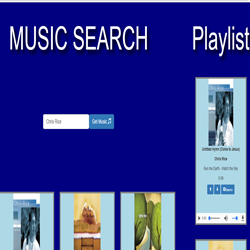
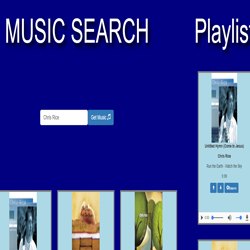
portfolio screenshots added

diff --git a/index.html b/index.html
@@ -24,77 +24,108 @@
     </div>
 
     <div class="lightgreen">
-
     </div>
 
+    <div class="sunny-sky text-center"></div>
+    </div> 
     <div class="mountain text-center">
         <h2>Projects</h2>
         <div class="container-fluid">
             <div class="row one">
+               
+               
+               
                 <div class="col-xs-12 col-sm-6 col-md-3 text-center">
                     <div>
-                        <h3> "Slap Game: Fun Beginnings"</h3>
+                        <h3>"A Project Named Inspire: Screen Saver Plus App"</h3>
+                        <a href=" https://inspireproject.herokuapp.com/"> <img class ="portimg" src="inspire.png" alt="inspire screenshot"></a>
+                    </div>
+                </div>
+                
+                <div class="col-xs-12 col-sm-6 col-md-3 text-center">
+                    <div>
+                        <h3>"Towers of Hanoi: App for GridWorks Games"</h3>
+                        <a href="https://gridgames.herokuapp.com/#/TowersOfHanoi"> <img class ="portimg gridworksgames" src="towersofhanoi.png" alt="towers of hanoi screenshot"></a>
+                    </div>
+                </div>
+                
+                
+                <div class="col-xs-12 col-sm-6 col-md-3 text-center">
+                    <div>
+                        <h3>"The Life and Times of a Kanban: Digital Kanban"</h3>
+                        <a href="http://kanbanvue.herokuapp.com/#/boards"> <img class ="portimg" src="kanban.png" alt="kanban screenshot"></a>
+                    </div>
+                </div>
+                
+                <div class="col-xs-12 col-sm-6 col-md-3 text-center">
+                    <div>
+                        <h3>"Mastermind in Vue: App for GridWorks Games"</h3>
+                        <a href="https://gridgames.herokuapp.com/#/Mastermind"> <img class ="portimg gridworksgames" src="mastermind.png" alt="mastermind screenshot"></a>
+                    </div>
+                </div>
+               
+               
+                
+               
+            </div>
+            <div class="row">
+                <div class="col-xs-12 col-sm-6 col-md-3 text-center">
+                    <div>
+                        <h3>"Fun Beginnings: Virtual Lumberjack App"</h3>
                         <a href="https://acaroselli1.github.io/SlapGame/"> <img class ="portimg" src="slapgame.png" alt="slapgame screenshot"></a>
 
                     </div>
                 </div>
                 <div class="col-xs-12 col-sm-6 col-md-3 text-center">
                     <div>
-                        <h3> "More Fun: With Music"</h3>
-                        <a href="https://acaroselli1.github.io/Music-Is-Fun/"> <img class ="portimg" src="musicisfun.png" alt="musicisfun screenshot"></a>
-                    </div>
-                </div>
-                <div class="col-xs-12 col-sm-6 col-md-3 text-center">
-                    <div>
-                        <h3>"NFL Anyone?"</h3>
+                        <h3>"NFL Anyone? : Fantasy Football App"</h3>
                         <a href="https://acaroselli1.github.io/my-roster/"> <img class ="portimg" src="myroster.png" alt="myroster screenshot"></a>
 
                     </div>
-                </div>
+                </div> 
+               
                 <div class="col-xs-12 col-sm-6 col-md-3 text-center">
                     <div>
-                        <h3>"Music with a Vue"</h3>
-                        <a href="https://demo-deploy-acaroselli.herokuapp.com/"> <img class ="portimg" src="vuemusic.png" alt="vuemusic screenshot"></a>
-                    </div>
-                </div>
-            </div>
-            <div class="row">
-                <div class="col-xs-12 col-sm-6 col-md-3 text-center">
-                    <div>
-                        <h3>"The Life and Times of a Kanban"</h3>
-                        <a href="http://kanbanvue.herokuapp.com/#/boards"> <img class ="portimg" src="kanban.png" alt="kanban screenshot"></a>
-                    </div>
-                </div>
-                <div class="col-xs-12 col-sm-6 col-md-3 text-center">
-                    <div>
-                        <h3>"The Early Days: Tic-Tac-Toe"</h3>
+                        <h3>"The Early Days: Tic-Tac-Toe App"</h3>
                         <a href="https://acaroselli1.github.io/tictactoe/"> <img class ="portimg" src="tictactoe.png" alt="tictactoe screenshot"></a>
                     </div>
                 </div>
                 <div class="col-xs-12 col-sm-6 col-md-3 text-center">
                     <div>
-                        <h3>"A Project Named Inspire"&nbsp;&nbsp;&nbsp;&nbsp;&nbsp;</h3>
-                        <a href=" https://inspireproject.herokuapp.com/"> <img class ="portimg" src="inspire.png" alt="inspire screenshot"></a>
+                        <h3>"Music with a Vue: Music Search/Playlist App"</h3>
+                        <a href="https://demo-deploy-acaroselli.herokuapp.com/"> <img class ="portimg" src="vuemusic.png" alt="vuemusic screenshot"></a>
                     </div>
                 </div>
-                <div class="col-xs-3">
+            </div>    
+              
+              
+                <div class="row">
+                   
+                <div class="col-xs-12 col-sm-6 col-md-3 text-center">
                     <div>
-
+                        <h3> "More Fun: Music Search App"</h3>
+                        <a href="https://acaroselli1.github.io/Music-Is-Fun/"> <img class ="portimg" src="musicisfun.png" alt="musicisfun screenshot"></a>
                     </div>
-                </div>
+                </div>    
+               
+               </div>
+                
+
+
 
             </div>
-
-
-
+        
         </div>
+       
+        
     </div>
-
-
-
-
-
-
+    
+   <div class="mountain text-center">
+   </div>
+   <div class="lightgreen2">
+   </div> 
+   <div class="mountain text-center">
+   </div>
 </body>
 
 </html>

diff --git a/style.css b/style.css
@@ -34,7 +34,7 @@
 }
 
 .mountain{
-  height:150vh;
+  height:200vh;
   background-image:url("mountain.jpg");
   background-attachment:fixed;
   background-size:cover;
@@ -67,6 +67,9 @@ img{
   opacity:.75;
 }
 
+.gridworksgames{
+  opacity:1;
+}
 h2{
   font-size:200%;
   margin-bottom:5vh;
@@ -85,16 +88,27 @@ h3{
   background-color:rgba(0,0,0,.75); 
 }
 
-.row{
+/* .row{
   margin-bottom:5vh;
-}
+} */
 
 .lightgreen{
   height:50vh;
   background-color:#053E05;
   background-attachment:fixed;
   background-size:cover;
+
+
 }
+
+.lightgreen2{
+  height:100vh;
+  background-color:#053E05;
+  background-attachment:fixed;
+  background-size:cover;
+
+}
+
 
 h1{
   color:white;
